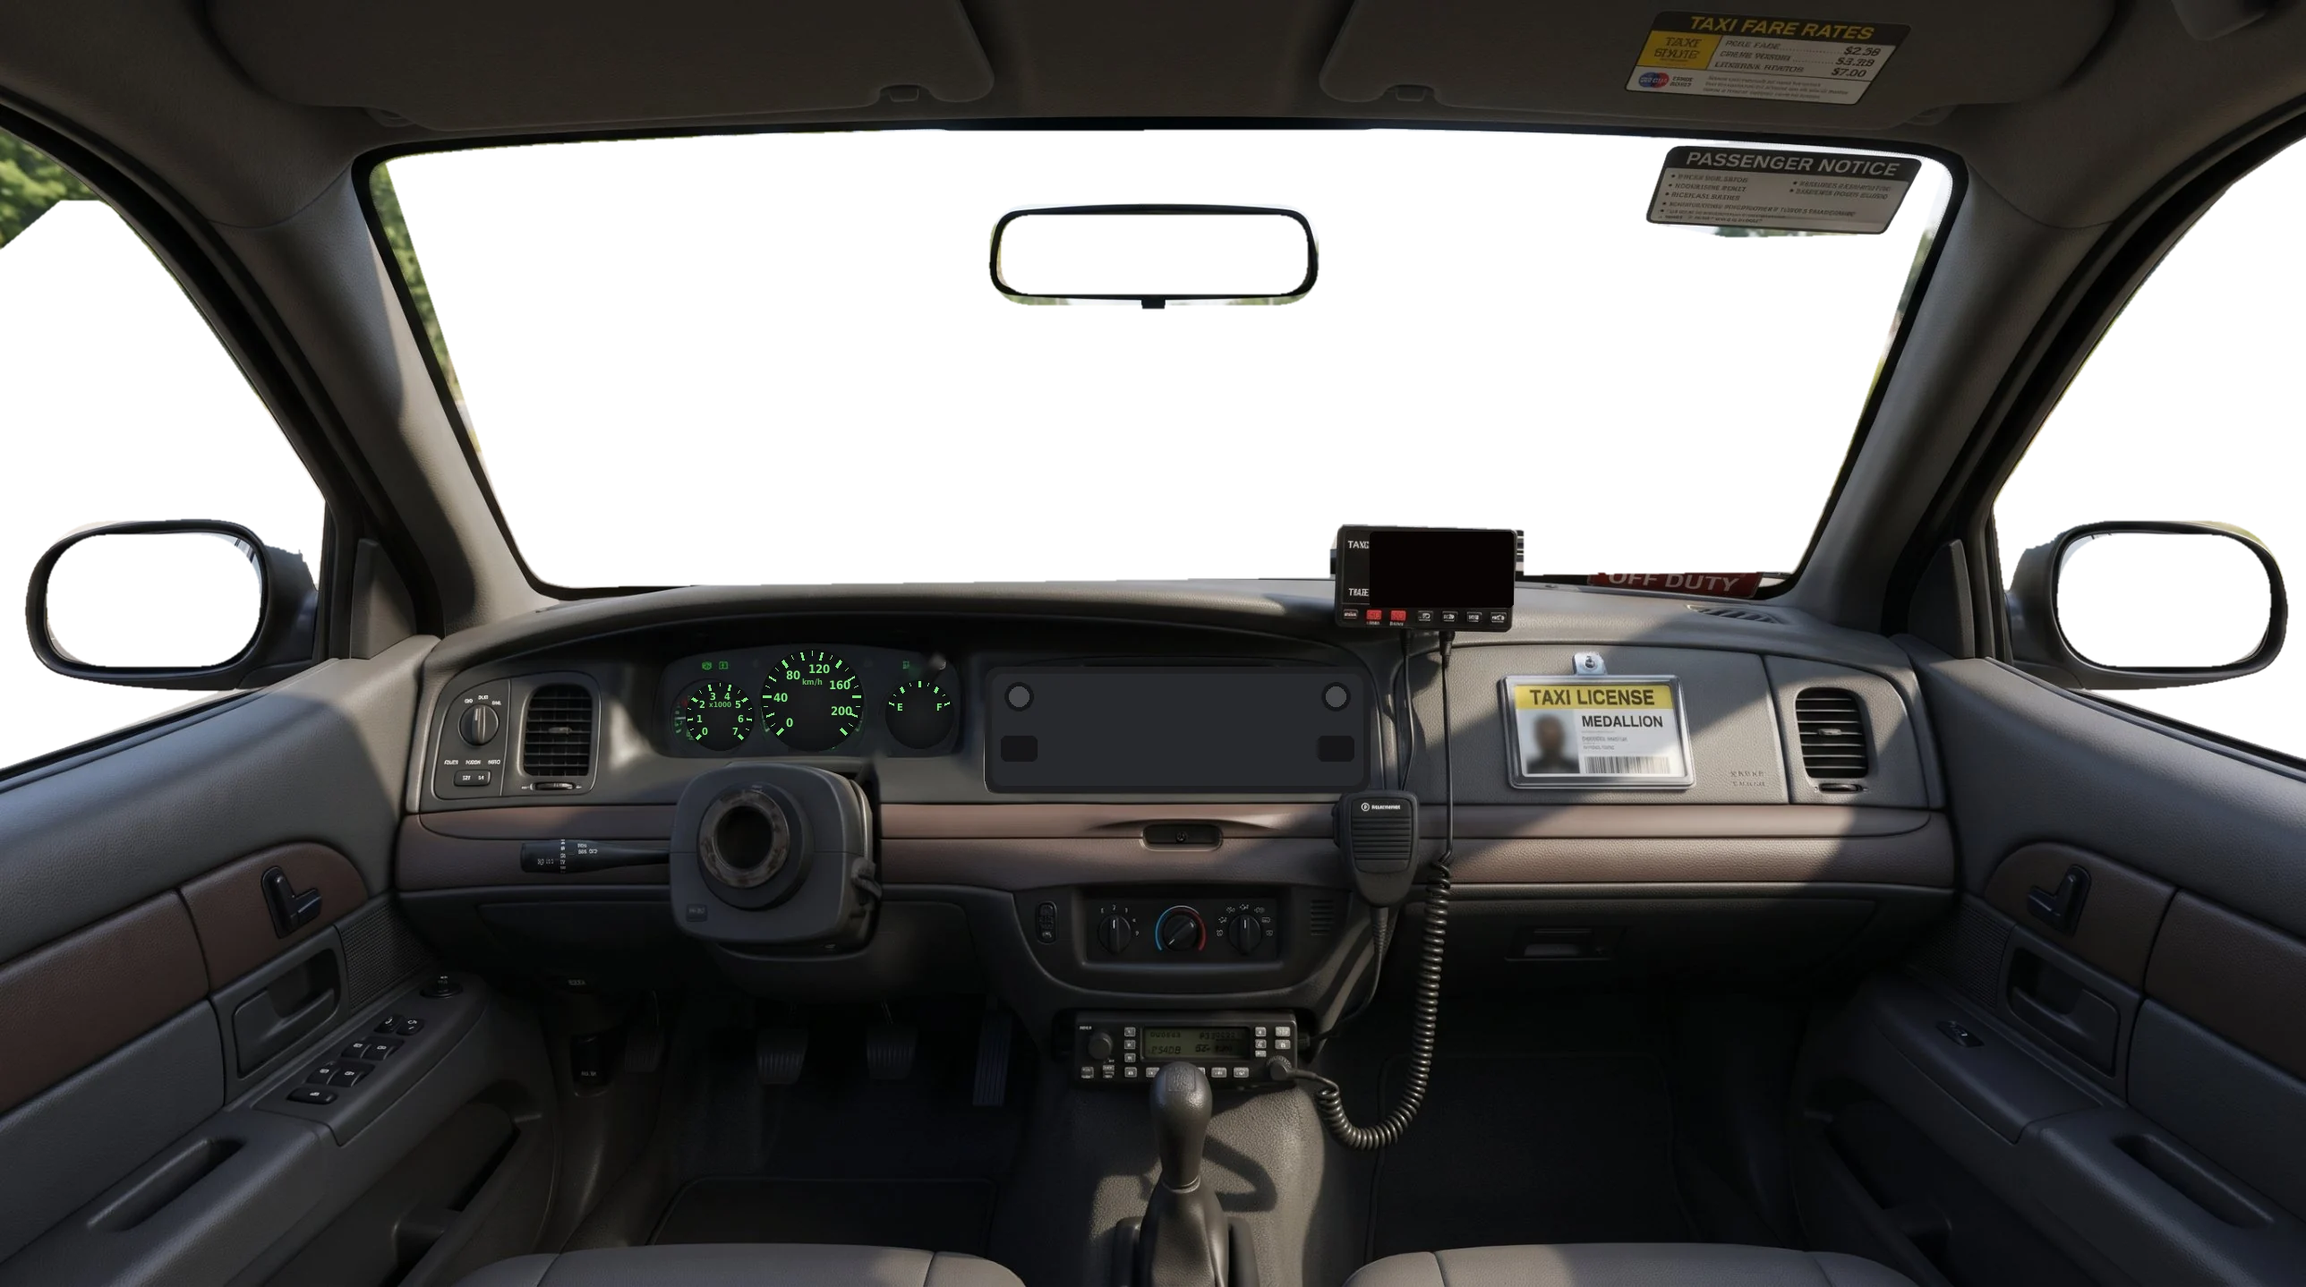
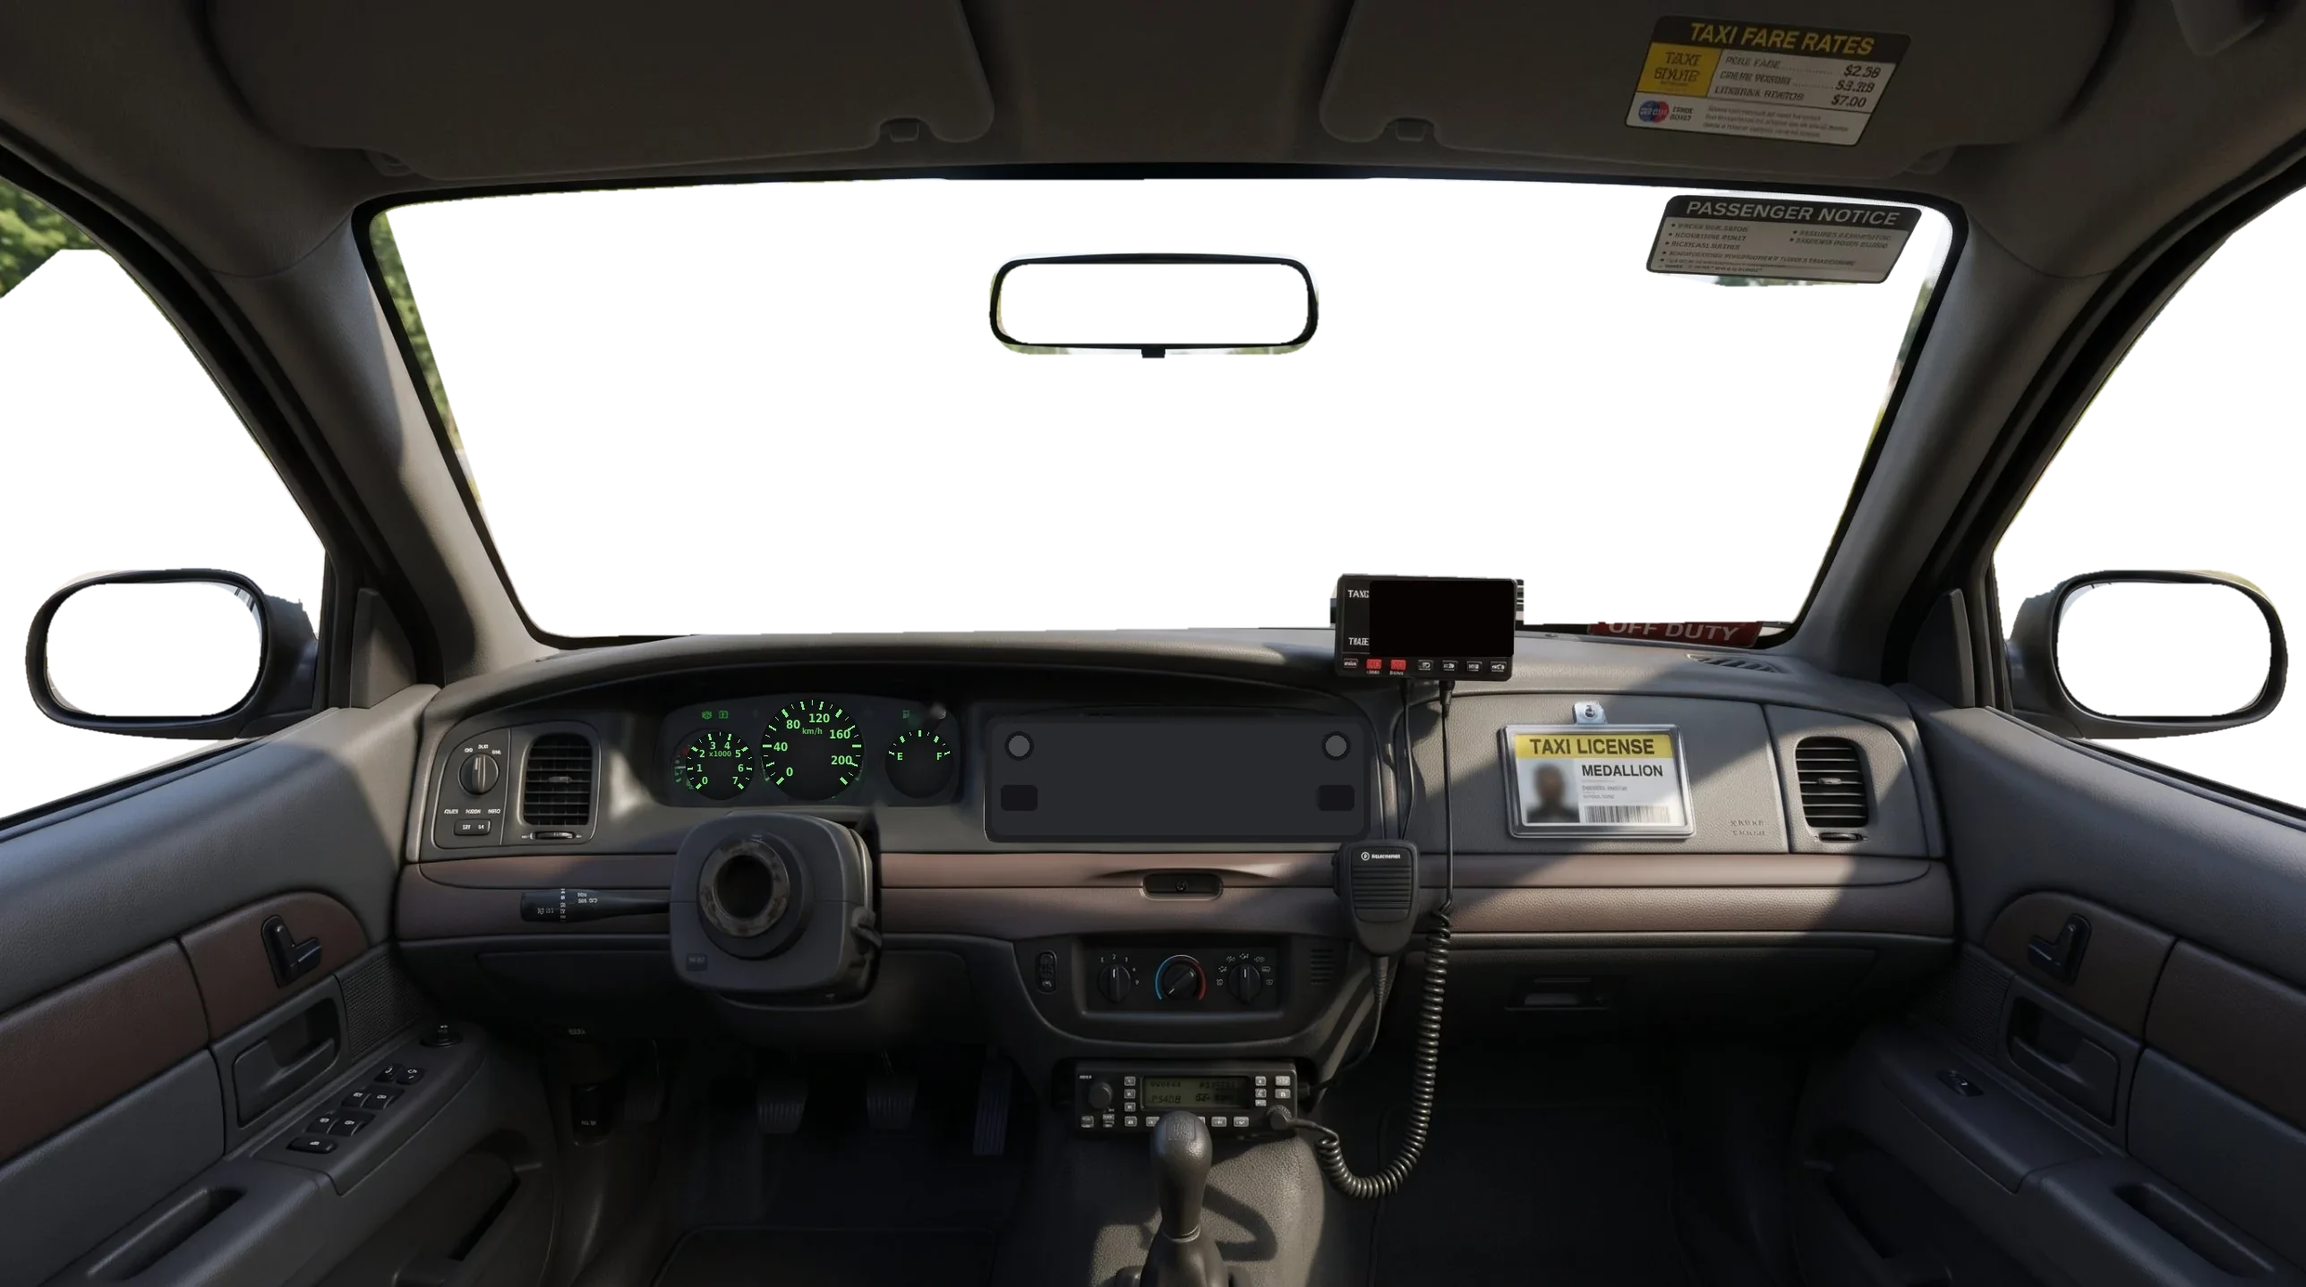
Fari veri dei modelli (via le placchette esterne), sedile alzato negli abitacoli, volante con inerzia visiva, stridio gomme più naturale e meno frequente
Claude-Session: https://claude.ai/code/session_01W8iG7LND3boGmKpCt1qQnk

diff --git a/js/07_audio.js b/js/07_audio.js
@@ -51,9 +51,11 @@ function initAudio(){
   const sq=AC.createOscillator();sq.type='triangle';sq.frequency.value=900;const sq2=AC.createOscillator();sq2.type='sine';sq2.frequency.value=1780;
   const v1=AC.createOscillator();v1.frequency.value=6.3;const v1g=AC.createGain();v1g.gain.value=26;v1.connect(v1g);v1g.connect(sq.frequency);
   const v2=AC.createOscillator();v2.frequency.value=13.7;const v2g=AC.createGain();v2g.gain.value=12;v2.connect(v2g);v2g.connect(sq.frequency);const v3g=AC.createGain();v3g.gain.value=44;v1.connect(v3g);v3g.connect(sq2.frequency);
-  const sqf=AC.createBiquadFilter();sqf.type='bandpass';sqf.Q.value=5;sqf.frequency.value=900;const sqt=AC.createGain();sqt.gain.value=0.32;sq.connect(sqf).connect(sqt).connect(sqg);const sq2g=AC.createGain();sq2g.gain.value=0.1;sq2.connect(sq2g).connect(sqg);
-  const sqb1=AC.createBiquadFilter();sqb1.type='bandpass';sqb1.Q.value=16;sqb1.frequency.value=900;const sqb1g=AC.createGain();sqb1g.gain.value=2.2;nz.connect(sqb1).connect(sqb1g).connect(sqg);
-  const sqb2=AC.createBiquadFilter();sqb2.type='bandpass';sqb2.Q.value=12;sqb2.frequency.value=1850;const sqb2g=AC.createGain();sqb2g.gain.value=1.1;nz.connect(sqb2).connect(sqb2g).connect(sqg);
+  const sqf=AC.createBiquadFilter();sqf.type='bandpass';sqf.Q.value=5;sqf.frequency.value=900;const sqt=AC.createGain();sqt.gain.value=0.07;sq.connect(sqf).connect(sqt).connect(sqg);const sq2g=AC.createGain();sq2g.gain.value=0.025;sq2.connect(sq2g).connect(sqg);
+  const sqb1=AC.createBiquadFilter();sqb1.type='bandpass';sqb1.Q.value=9;sqb1.frequency.value=900;const sqb1g=AC.createGain();sqb1g.gain.value=2.6;nz.connect(sqb1).connect(sqb1g).connect(sqg);
+  const sqb2=AC.createBiquadFilter();sqb2.type='bandpass';sqb2.Q.value=7;sqb2.frequency.value=1850;const sqb2g=AC.createGain();sqb2g.gain.value=1.0;nz.connect(sqb2).connect(sqb2g).connect(sqg);
+  // corpo largo dello stridio: rumore filtrato, meno "fischio" e più gomma che graffia
+  {const b3=AC.createBiquadFilter();b3.type='bandpass';b3.Q.value=2.2;b3.frequency.value=1300;const g3=AC.createGain();g3.gain.value=0.9;nz.connect(b3).connect(g3).connect(sqg);}
   sq.start();sq2.start();v1.start();v2.start();nodes.push(sq,sq2,v1,v2);
   const wf=AC.createBiquadFilter();wf.type='bandpass';wf.frequency.value=700;wf.Q.value=0.4;const wg=AC.createGain();wg.gain.value=0;nz.connect(wf).connect(wg).connect(EB);
   const rf=AC.createBiquadFilter();rf.type='lowpass';rf.frequency.value=380;const rg=AC.createGain();rg.gain.value=0;nz.connect(rf).connect(rg).connect(EB);
@@ -91,9 +93,9 @@ function updateAudio(st){if(!eng||!AC)return;const P=eng.P,t=AC.currentTime;
   eng.master.gain.setTargetAtTime((0.10+load*0.10+r*0.07)*(eng.SN.exh||1)*(CFG.engVol??1),t,0.06);
   if(eng.bl){const bf=st.rpm/60*11.5;eng.bl.o1.frequency.setTargetAtTime(bf,t,0.03);eng.bl.o2.frequency.setTargetAtTime(bf*2.02,t,0.03);eng.bl.g.gain.setTargetAtTime(Math.min(0.06,(0.004+load*0.05)*r*r*1.6)*(CFG.engVol??1),t,0.05);}
   if(eng.SN.rough)eng.cg.gain.setTargetAtTime((P.diesel?0.45:0.22)*(0.4+load*0.9)*eng.SN.rough,t,0.05);
-  {const sf0=pl.surfR||'asphalt',v=Math.abs(pl.vx),lat=v>6?Math.max(0,st.slip/(pl.alPk||0.2)-0.85)*0.9:0,brake=(pl.absOn&&v>8)?0.05*(0.6+0.4*Math.abs(Math.sin(t*2*Math.PI*13))):((pl.lockF||pl.lockR)&&v>3?0.22:0),spin=(pl.spinW>0.15&&v<(pl.surfR==='asphalt'?22:15))?(pl.surfR==='asphalt'?0.14:0.1):0;
+  {const sf0=pl.surfR||'asphalt',v=Math.abs(pl.vx),lat=v>6?Math.max(0,st.slip/(pl.alPk||0.2)-0.95)*0.8:0,brake=(pl.absOn&&v>8)?0.05*(0.6+0.4*Math.abs(Math.sin(t*2*Math.PI*13))):((pl.lockF||pl.lockR)&&v>3?0.22:0),spin=(pl.spinW>0.15&&v<(pl.surfR==='asphalt'?22:15))?(pl.surfR==='asphalt'?Math.min(0.14,Math.max(0,pl.spinW-0.5)*0.35)*(v<12?1:Math.max(0,1-(v-12)/10)):0.1):0;
    const amt=Math.min(0.3,lat+brake+spin);
-   if(sf0==='asphalt'&&!pl.flip){eng.sqg.gain.setTargetAtTime(amt*(WX==='rain'?0.4:1),t,0.04);{const f0=760+v*4+lat*260+(pl.lockF||pl.lockR?120:0);eng.sq.frequency.setTargetAtTime(f0,t,0.05);eng.sq2.frequency.setTargetAtTime(f0*1.98,t,0.05);eng.sqf.frequency.setTargetAtTime(f0,t,0.05);eng.sqb1.frequency.setTargetAtTime(f0,t,0.05);eng.sqb2.frequency.setTargetAtTime(f0*2.05,t,0.05);}eng.tg.gain.setTargetAtTime(0,t,0.05);}
+   if(sf0==='asphalt'&&!pl.flip){{const up=amt>(eng.sqA||0);eng.sqA=amt;eng.sqg.gain.setTargetAtTime(amt*(WX==='rain'?0.4:1),t,up?0.09:0.16);}eng.sqW=Math.max(-1,Math.min(1,(eng.sqW||0)+(Math.random()-0.5)*0.25));{const f0=(720+v*3.2+lat*220+(pl.lockF||pl.lockR?100:0))*(1+eng.sqW*0.035);eng.sq.frequency.setTargetAtTime(f0,t,0.12);eng.sq2.frequency.setTargetAtTime(f0*1.98,t,0.12);eng.sqf.frequency.setTargetAtTime(f0,t,0.12);eng.sqb1.frequency.setTargetAtTime(f0,t,0.12);eng.sqb2.frequency.setTargetAtTime(f0*2.05,t,0.12);}eng.tg.gain.setTargetAtTime(0,t,0.05);}
    else{eng.sqg.gain.setTargetAtTime(0,t,0.05);eng.tg.gain.setTargetAtTime(Math.min(0.25,(lat+spin+brake)*1.4)*(sf0==='asphalt'?0:1),t,0.05);}}
   const v=st.kmh/3.6,sf=pl.surfR||'asphalt';
   {const sc=(sf==='asphalt'&&!pl.air)?Math.max(0,Math.min(0.12,((pl.slip||0)/(pl.alPk||0.2)-0.65)*0.5))*Math.min(1,v/9):0;eng.scg.gain.setTargetAtTime(sc,t,0.06);eng.scf.frequency.setTargetAtTime(240+v*5,t,0.1);}

diff --git a/js/04_modelli_auto.js b/js/04_modelli_auto.js
@@ -134,7 +134,7 @@ function prepCarLevel(sc,k,cfg,flatTo){
   const wheels=[];sc.traverse(o=>{if(/wheel/i.test(o.name)&&!/steer/i.test(o.name)){let p=o.parent,inW=false;while(p){if(wheels.includes(p))inW=true;p=p.parent;}if(!inW)wheels.push(o);}});
   const groups=new Map(),out=new THREE.Group(),info={wheels:[],wsX:null,rearX:null,glass:new THREE.Box3(),paintMeshes:[]};
   const role=o=>{const n=o.name,mn=(o.material&&o.material.name)||'';
-    if(cfg.plain&&/lightbar|bullbar/i.test(n))return'skip';if(/lightbar/i.test(n))return'beacon';if(/taxi_beacon/i.test(n))return'taxib';    if(/brakelight/i.test(n))return'tail';if(/headlight/i.test(n)&&!/glass/i.test(n))return'head';if(/reverse/i.test(n))return'rev';if(/blinker/i.test(n))return'blink';
+    if(cfg.plain&&/lightbar|bullbar/i.test(n))return'skip';if(/lightbar/i.test(n))return'beacon';if(/taxi_beacon/i.test(n))return'taxib';    if(/brakelight/i.test(n))return'tail';if(/headlight/i.test(n)&&!/headlights?_?glass/i.test(n))return'head';if(/reverse/i.test(n))return'rev';if(/blinker/i.test(n))return'blink';
     if(k==='utilitaria'&&mn==='LIGHTS1')return'plights';if(/bodymat/i.test(mn)||/_body$/i.test(mn)||(k==='furgone'&&mn==='body')||(k==='utilitaria'&&mn==='Top_chassis1'))return'paint';if(k==='furgone'&&/362/.test(mn))return'decal';if(/transperent|glass/i.test(mn))return'glass';if(/rollcage/i.test(n))return'cage';return'other';};
   const add=(key,mat,r,b)=>{if(!groups.has(key))groups.set(key,{mat,r,list:[]});groups.get(key).list.push(b);};
   const wheelOf=o=>{let p=o;while(p){const i=wheels.indexOf(p);if(i>=0)return i;p=p.parent;}return -1;};
@@ -250,12 +250,7 @@ function makeCarGLB(k,color,shadow,fine,opt={}){
   const RC=new THREE.Raycaster(),bodyMs=[];if(T.fleet){g.updateMatrixWorld(true);g.traverse(o=>{if(o.isMesh&&o.userData.role!=='wheel'&&o.userData.role!=='glass')bodyMs.push(o);});}
   const flush=(front,y,z,w,h,mat)=>{for(let zz=z;Math.abs(zz)>0.25;zz-=Math.sign(z)*0.05){RC.set(new THREE.Vector3(front?hl+1.5:-hl-1.5,y,zz),new THREE.Vector3(front?-1:1,0,0));RC.far=2.4;const hit=RC.intersectObjects(bodyMs,false)[0];
       if(hit&&Math.abs(hit.point.x)>hl-0.7){const m=new THREE.Mesh(new THREE.BoxGeometry(0.02,h,w),mat);m.position.copy(hit.point);m.position.x+=front?0.012:-0.02;g.add(m);return m;}}return null;};
-  if(T.fleet){const Wb=T.W/2-(k==='hellcat'||k==='taxi'?0.25:0.12),hy2=k==='zil'?0.9:Math.max(0.55,T.Hm*0.38);
-    if(!ud.headM){ud.headM=new THREE.MeshStandardMaterial({color:0xf2f2ea,emissive:0xfff4d8,emissiveIntensity:0.15});[1,-1].forEach(sd=>flush(true,hy2,sd*(Wb-0.22),0.2,0.09,ud.headM));}
-    if(!ud.tailM){ud.tailM=new THREE.MeshStandardMaterial({color:0xb01008,emissive:0xff0000,emissiveIntensity:0.15,toneMapped:false});[1,-1].forEach(sd=>flush(false,hy2+0.04,sd*(Wb-0.12),0.16,0.1,ud.tailM));}
-    if(!ud.revM){ud.revM=new THREE.MeshStandardMaterial({color:0xf4f4f4,emissive:0xffffff,emissiveIntensity:0});[1,-1].forEach(sd=>flush(false,hy2-0.06,sd*(Wb-0.32),0.07,0.05,ud.revM));}
-    if(!ud.indL){ud.indL=new THREE.MeshStandardMaterial({color:0xff9a10,emissive:0xff8a00,emissiveIntensity:0});ud.indR=ud.indL.clone();
-      [[ud.indL,-1],[ud.indR,1]].forEach(([mm,sd])=>{flush(true,hy2-0.08,sd*Wb,0.09,0.05,mm);flush(false,hy2+0.12,sd*Wb,0.08,0.05,mm);});}}
+  if(T.fleet){const dummy=()=>new THREE.MeshStandardMaterial({color:0,emissive:0});ud.headM=ud.headM||dummy();ud.tailM=ud.tailM||dummy();ud.revM=ud.revM||dummy();if(!ud.indL){ud.indL=dummy();ud.indR=dummy();}}
   if(!ud.headM){ud.headM=new THREE.MeshStandardMaterial({color:0xf2f2ea,emissive:0xfff4d8,emissiveIntensity:0.15});[1,-1].forEach(sd=>{const h=new THREE.Mesh(new THREE.CircleGeometry(0.09,12),ud.headM);h.rotation.y=Math.PI/2;h.position.set(hl+0.01,hy,sd*(T.W/2-0.3));gx.add(h);});}
   if(!ud.tailM){ud.tailM=new THREE.MeshStandardMaterial({color:0x6a0808,emissive:0xff0000,emissiveIntensity:0.15,toneMapped:false});[1,-1].forEach(sd=>{const t=new THREE.Mesh(new THREE.BoxGeometry(0.03,0.16,0.1),ud.tailM);t.position.set(-hl-0.01,hy,sd*(T.W/2-0.12));gx.add(t);});}
   if(!ud.revM){ud.revM=new THREE.MeshStandardMaterial({color:0xcfcfcf,emissive:0xffffff,emissiveIntensity:0});[1,-1].forEach(sd=>{const t=new THREE.Mesh(new THREE.BoxGeometry(0.03,0.06,0.08),ud.revM);t.position.set(-hl-0.01,hy-0.14,sd*(T.W/2-0.12));gx.add(t);});}

diff --git a/js/10_camera_meteo.js b/js/10_camera_meteo.js
@@ -165,6 +165,8 @@ function ckGeo(u0,u1,v0,v1){const g=new THREE.PlaneGeometry(1,1),uv=g.attributes
 function ckQuad(k,u0,u1,v0,v1){const m=new THREE.Mesh(ckGeo(u0,u1,v0,v1),mirrorM);m.userData.uv=[u0,u1,v0,v1];CKO.hud.add(m);CKO.q[k]=m;return m;}
 ckQuad('C',0.32,0.68,0.12,0.92);ckQuad('L',0.66,1.0,0.08,0.92);ckQuad('R',0.0,0.34,0.08,0.92);
 // lancette vere sui quadranti dell'abitacolo (tachimetro e contagiri), sopra la foto e sotto il volante
+// sedile più alto: le foto (tranne la Lasley) sono già scese di 55 px sotto il cielo dell'abitacolo, qui si spostano le coordinate
+{const D=55;['volvo','wagoneer','daily','zil','hellcat','taxi'].forEach(k=>{const C=CKIMG[k];if(!C||C.dy)return;C.dy=D;C.g.forEach(e=>e[1]+=D);C.wheel.c[1]+=D;C.wheel.box[1]+=D;C.wheel.box[3]+=D;Object.values(C.glass).forEach(b=>{b[1]+=D;b[3]+=D;});['spd','turnL','turnR','beam','meter','gear'].forEach(q=>{if(C[q])C[q][1]+=D;});if(CKNAV[k])CKNAV[k][1]+=D;});}
 function ckNeedles(){const C=CKO.cfg,kmh=Math.abs(pl.vx)*3.6,rpm=pl.rpm||0,dk=CKO.dark||0,key=Math.round(kmh*2)+'|'+Math.round(rpm/25)+'|'+Math.round(dk*20);if(key===CKO.nv)return;CKO.nv=key;
   const c=document.getElementById('ckNdl'),g=c.getContext('2d'),k=CKO.nk||1;g.setTransform(1,0,0,1,0,0);g.clearRect(0,0,c.width,c.height);g.setTransform(k,0,0,k,0,0);g.lineCap='round';
   if(dk>0.05)for(const[x,y,r,t]of C.g){if(t==='L')continue;const gr=g.createRadialGradient(x,y,0,x,y,r*1.15);gr.addColorStop(0,`rgba(255,236,200,${0.5*dk})`);gr.addColorStop(0.8,`rgba(255,220,170,${0.32*dk})`);gr.addColorStop(1,'rgba(255,220,170,0)');g.fillStyle=gr;g.beginPath();g.arc(x,y,r*1.15,0,7);g.fill();}   // quadranti retroilluminati al buio
@@ -245,7 +247,10 @@ function updateCamera(dt){
     const C=CKO.cfg,cc=C.g?[C.g.reduce((a,q)=>a+q[0],0)/C.g.length,C.g.reduce((a,q)=>a+q[1],0)/C.g.length]:C.spd||[512,330],rx=C.g?Math.max(60,(Math.max(...C.g.map(q=>q[0]))-Math.min(...C.g.map(q=>q[0])))/2+C.g[0][2]*1.6):70,ry=rx*0.55;
     Object.assign(gl.style,{left:(CKO.l+(cc[0]-rx)*CKO.s)+'px',top:(CKO.t+(cc[1]-ry)*CKO.s)+'px',width:(2*rx*CKO.s)+'px',height:(2*ry*CKO.s)+'px',opacity:(0.85*dk).toFixed(3),display:dk>0.05?'block':'none'});}}
   if(CKO.on&&CKO.cfg.g)ckNeedles();
-  if(CKO.on&&CKO.cfg.wheel){const Wh=CKO.cfg.wheel,th=pl.delta*pl.P.ratio,c=Math.cos(th),sn=Math.sin(th),k=Wh.a/Wh.b;if(Math.abs(th-(CKO.th??99))>0.002){CKO.th=th;document.getElementById('ckWheel').style.transform='matrix('+c+','+sn/k+','+(-sn*k)+','+c+',0,0)';}}
+  // volante: segue lo sterzo con una piccola inerzia a molla (solo effetto visivo, lo sterzo vero non cambia)
+  if(CKO.on&&CKO.cfg.wheel){const Wh=CKO.cfg.wheel,tg=pl.delta*pl.P.ratio,h=Math.min(dt,0.05),w0=20,z=0.82;if(CKO.thv==null||!isFinite(CKO.thv)){CKO.thv=tg;CKO.thw=0;}
+    for(let i=0,n=Math.ceil(h/0.008),hh=h/Math.max(1,n);i<n;i++){const a=w0*w0*(tg-CKO.thv)-2*z*w0*CKO.thw;CKO.thw+=a*hh;CKO.thv+=CKO.thw*hh;}
+    const th=CKO.thv,c=Math.cos(th),sn=Math.sin(th),k=Wh.a&&Wh.b?Wh.a/Wh.b:1;if(Math.abs(th-(CKO.th??99))>0.0004){CKO.th=th;document.getElementById('ckWheel').style.transform='matrix('+c+','+sn/k+','+(-sn*k)+','+c+',0,0)';}}
   if(pl.ck.wipers.length){const on=WX==='rain';pl.wipT=(pl.wipT||0)+(on?dt:0);const th=on?(1-Math.cos(pl.wipT*Math.PI*1.25))/2*1.35:0;
     pl.ck.wipers.forEach(w=>{const dir=new THREE.Vector3(0,0,1).multiplyScalar(Math.cos(th)).add(w.u.clone().multiplyScalar(Math.sin(th)));w.bl.position.copy(w.piv).addScaledVector(dir,0.29);w.bl.quaternion.setFromUnitVectors(new THREE.Vector3(1,0,0),dir);w.bl.visible=on||true;});}
   {const f=new THREE.Vector3(Math.cos(pl.h),0,-Math.sin(pl.h)),pf=new THREE.Vector3(pl.clipXf,0,0),pr=new THREE.Vector3(pl.clipXr,0,0);m.localToWorld(pf);m.localToWorld(pr);

diff --git a/index.html b/index.html
@@ -415,7 +415,7 @@
   </div>
   <div class="mgrid tabp" data-t="cart"><section class="card span"><h2>Foto e clip</h2><p class="note">Tasto O (o il pulsante Foto) per scattare, J per registrare una clip: finiscono qui. Tocca per ingrandire e salvare.</p><div id="mediaAlbum" class="pcGrid"></div></section></div>
 <div id="lbx"><div class="in"><div class="media"></div><div class="cap"></div><div class="bt"><button id="lbxSave">⬇ Salva</button><button id="lbxDel" class="sm">Elimina</button><button id="lbxClose" class="sm">Chiudi</button></div></div></div>
-  <div class="mgrid tabp" data-t="info"><section class="card span sup"><h2>♥ Supporta Guido !</h2><p>Guido è gratis e senza pubblicità. Se ti diverte, offrici da bere !</p><a class="supBtn" href="https://buy.stripe.com/eVqaEZanK0EKcA38ZcejK01" target="_blank" rel="noopener">🍹 Offrici da bere</a></section><div style="text-align:center;font-size:12px;color:#8a9099;margin:-4px 0 6px" class="span">Versione 83</div><section class="card span credBox"><div class="row" style="padding:12px 16px 0;justify-content:center"><button id="instBtn" class="sm" style="display:none">📲 Installa sul telefono</button></div><div class="credWin" id="credWin"><div class="credRoll" id="credRoll">
+  <div class="mgrid tabp" data-t="info"><section class="card span sup"><h2>♥ Supporta Guido !</h2><p>Guido è gratis e senza pubblicità. Se ti diverte, offrici da bere !</p><a class="supBtn" href="https://buy.stripe.com/eVqaEZanK0EKcA38ZcejK01" target="_blank" rel="noopener">🍹 Offrici da bere</a></section><div style="text-align:center;font-size:12px;color:#8a9099;margin:-4px 0 6px" class="span">Versione 84</div><section class="card span credBox"><div class="row" style="padding:12px 16px 0;justify-content:center"><button id="instBtn" class="sm" style="display:none">📲 Installa sul telefono</button></div><div class="credWin" id="credWin"><div class="credRoll" id="credRoll">
 <div class="studio"><img src="img/logo_plate.webp" alt="Guido"><div><div class="by">Un gioco realizzato da</div><div class="st">HOPTHOP STUDIO</div><div class="yr">© 2026 · ideazione, programmazione, mondo di Valdonia</div></div></div>
 <h2 style="margin:0 0 8px">Crediti dei modelli 3D</h2><p style="opacity:.8;margin:0 0 10px">Modelli scaricati da Sketchfab, usati con licenza Creative Commons Attribution 4.0 (CC BY 4.0) salvo dove indicato. Sono stati ridotti e ottimizzati per il browser.</p>
 <ul style="padding-left:18px;margin:0">

diff --git a/sw.js b/sw.js
@@ -1,6 +1,6 @@
 // Guido: service worker. Il gioco si installa come app; i file del gioco arrivano dalla rete quando c'è,
 // altrimenti dalla copia salvata, così parte anche offline. Le librerie dai CDN restano in cache.
-const V = 'guido-v83';
+const V = 'guido-v84';
 const CORE = ['./', './index.html', './manifest.webmanifest', './icons/icon-192.png', './icons/icon-512.png', './icons/favicon-32.png', './img/logo_plate.webp'];
 self.addEventListener('install', e => { self.skipWaiting(); e.waitUntil(caches.open(V).then(c => c.addAll(CORE)).catch(() => {})); });
 self.addEventListener('activate', e => { e.waitUntil(caches.keys().then(k => Promise.all(k.filter(x => x !== V).map(x => caches.delete(x)))).then(() => self.clients.claim())); });
